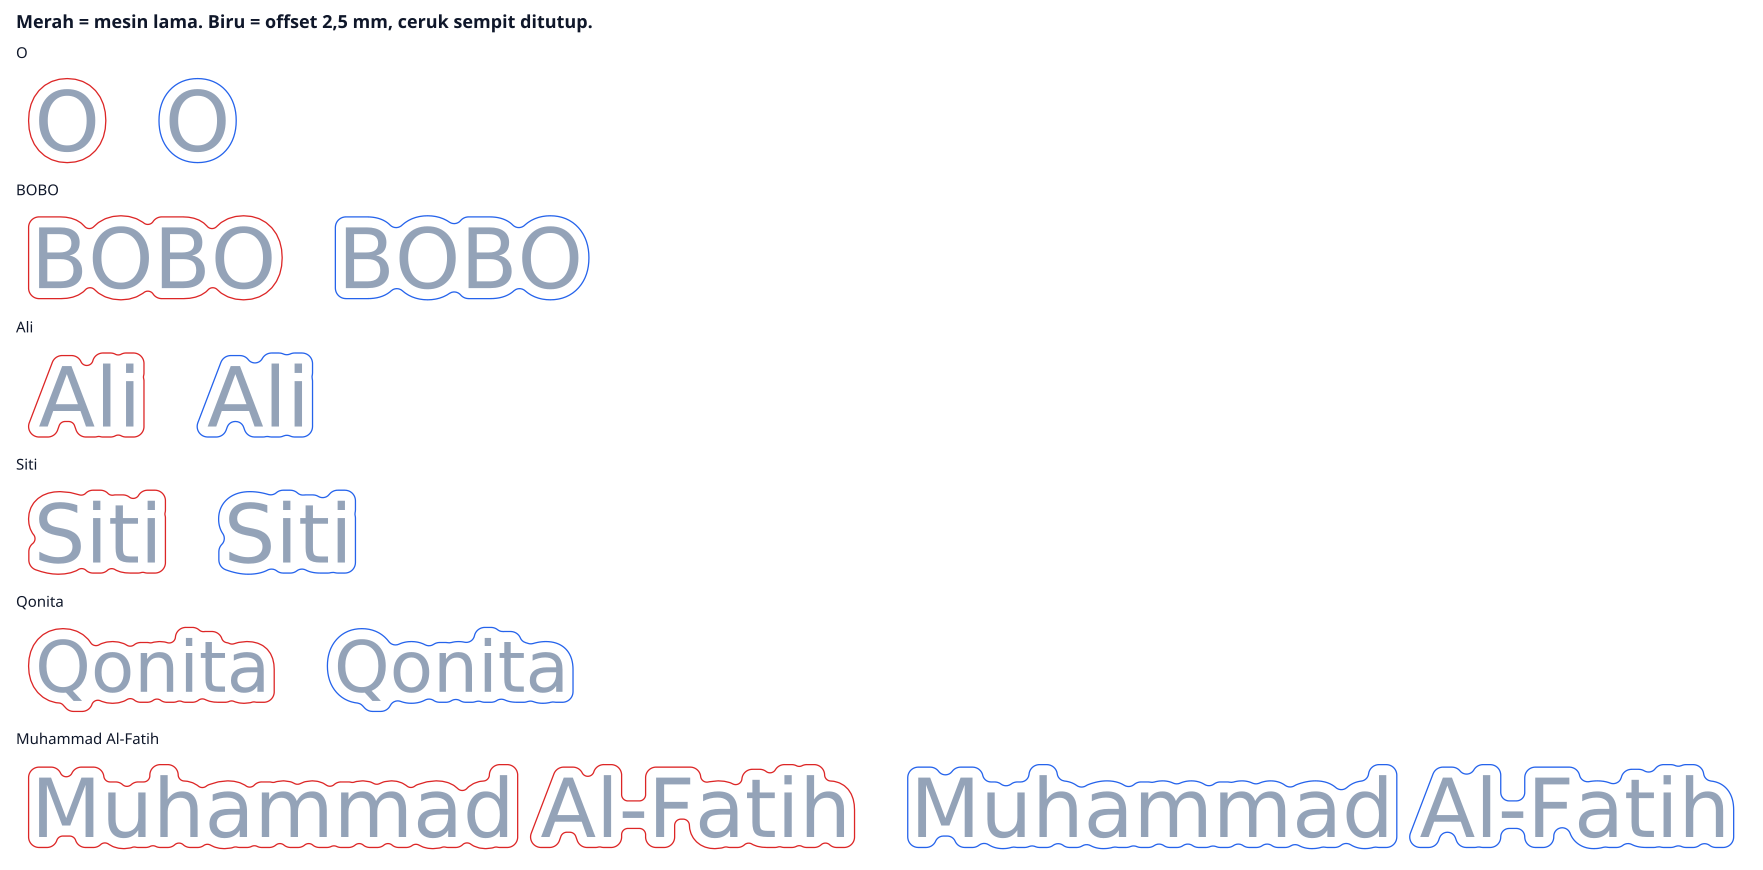
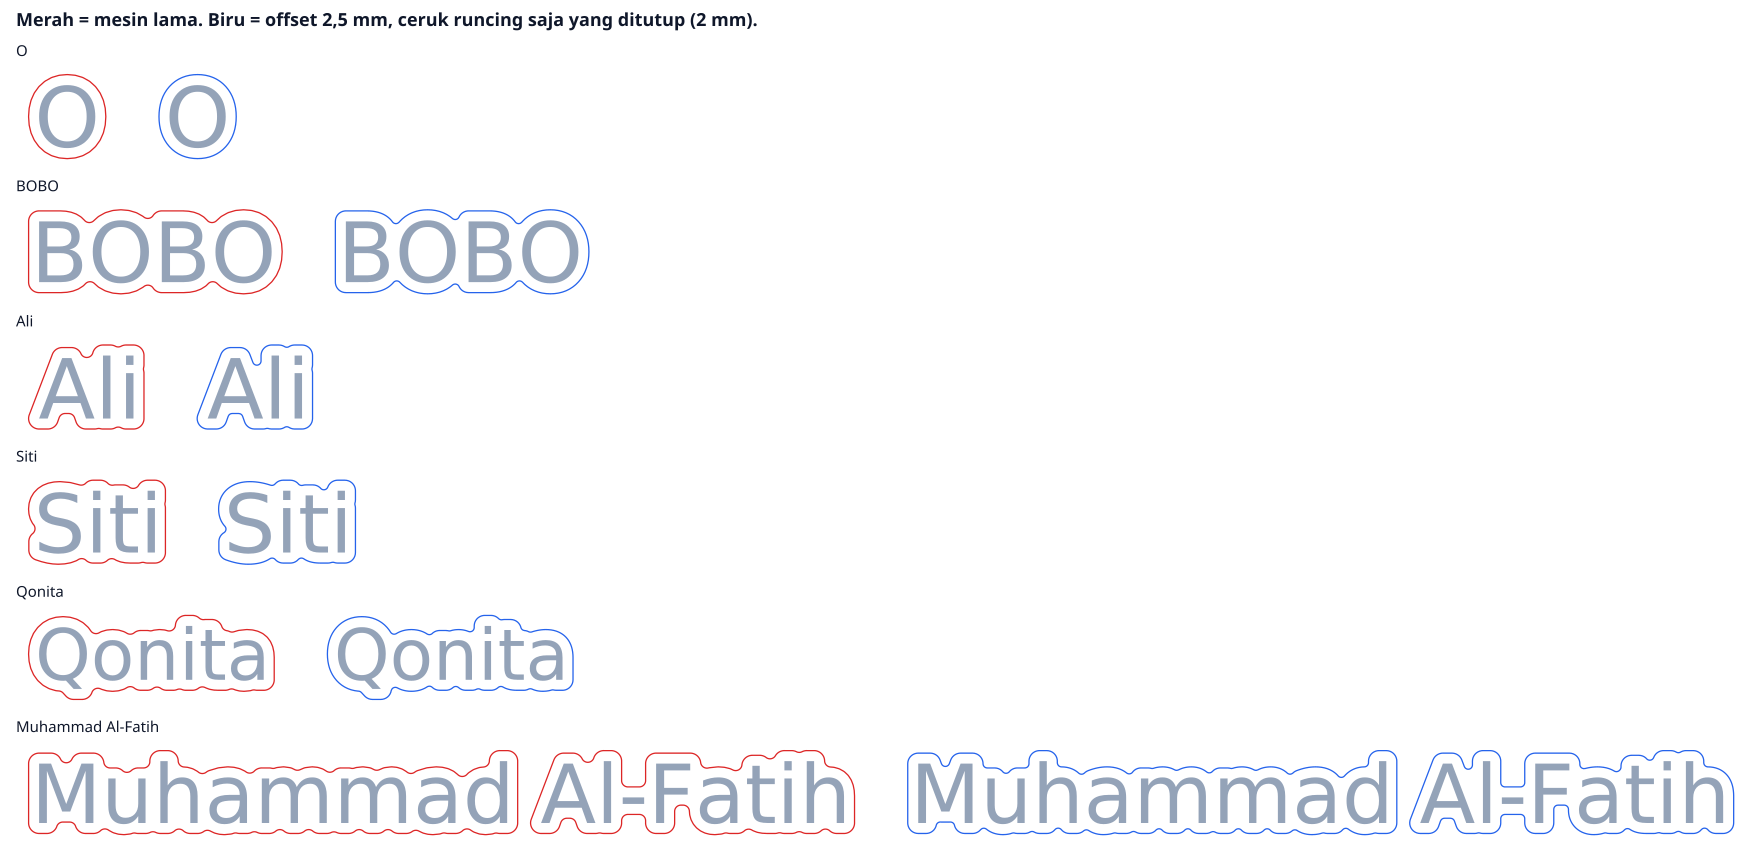
fix(contour): round only the sharp letter cusps
A 4 mm close smoothed the outer waves too much. Close notches narrower
than 2 mm instead, so the Faza silhouette stays close to the plain
2.5 mm contour and the knife-edge tips become small arcs.

diff --git a/lib/contour-outline.test.ts b/lib/contour-outline.test.ts
@@ -143,7 +143,7 @@ describe("production contour", () => {
 
   test("offset and gap threshold are configurable, and the defaults match Corel 0.25 cm", () => {
     assert.equal(OUTLINE_OFFSET_MM, 2.5);
-    assert.equal(GAP_CLOSE_MM, 4);
+    assert.equal(GAP_CLOSE_MM, 2);
 
     const wide = computeProductionOutline([rect(0, 0, 20, 10)], { offset: 1, gapClose: 0 });
     assert.ok(wide);
@@ -156,25 +156,25 @@ describe("production contour", () => {
     assert.equal(subpaths(separate), 2, "closing one piece at a time leaves a 4 mm gap as two pieces");
   });
 
-  test("notches narrower than the threshold are filled and the outer edge stays put", () => {
-    // 8 mm bay. A 2.5 mm offset leaves a channel about 3 mm wide, which the
-    // default 4 mm close then fills. A 14 mm bay stays open.
-    const narrow = "M 0 0 H 16 V 12 H 24 V 0 H 40 V 24 H 0 Z";
-    const wideBay = "M 0 0 H 13 V 12 H 27 V 0 H 40 V 24 H 0 Z";
-    const filled = computeProductionOutline([narrow]);
-    const open = computeProductionOutline([wideBay]);
-    const spared = computeProductionOutline([narrow], { gapClose: 0 });
-    assert.ok(filled && open && spared);
+  test("only a narrow sharp notch is filled; a wider bay and the outer edge stay", () => {
+    // 1.2 mm slot, no offset, so the width is exact. Default 2 mm close fills it.
+    // A 10 mm bay is wider than the threshold, so it stays.
+    const spike = "M 0 0 H 19.4 V 6 H 20.6 V 0 H 40 V 16 H 0 Z";
+    const bay = "M 0 0 H 15 V 6 H 25 V 0 H 40 V 16 H 0 Z";
+    const filled = computeProductionOutline([spike], { offset: 0 });
+    const open = computeProductionOutline([bay], { offset: 0 });
+    const raw = computeProductionOutline([spike], { offset: 0, gapClose: 0 });
+    assert.ok(filled && open && raw);
 
     const depth = (d: string) => {
       const pts = pointsOf(d);
-      const outer = Math.min(...pts.filter((p) => p.x < 3 || p.x > 37).map((p) => p.y));
-      const floor = Math.max(...pts.filter((p) => p.x > 16 && p.x < 24).map((p) => p.y));
+      const outer = Math.min(...pts.filter((p) => p.x < 2 || p.x > 38).map((p) => p.y));
+      const floor = Math.max(...pts.filter((p) => p.x > 15 && p.x < 25).map((p) => p.y));
       return floor - outer;
     };
-    assert.ok(depth(spared) > 8, `without closing the channel stays deep (${depth(spared)})`);
-    assert.ok(depth(filled) < 3, `default close fills the narrow channel (${depth(filled)})`);
-    assert.ok(depth(open) > 6, `a 14 mm bay stays (${depth(open)})`);
+    assert.ok(depth(raw) > 5, `the raw slot is deep (${depth(raw)})`);
+    assert.ok(depth(filled) < 1.5, `the 1.2 mm slot is filled (${depth(filled)})`);
+    assert.ok(depth(open) > 5, `the 10 mm bay stays (${depth(open)})`);
 
     const box = boundsOf(pointsOf(computeProductionOutline([rect(0, 0, 30, 12)])!));
     const bare = boundsOf(pointsOf(computeProductionOutline([rect(0, 0, 30, 12)], { gapClose: 0 })!));

diff --git a/lib/keychain-geometry.ts b/lib/keychain-geometry.ts
@@ -89,14 +89,14 @@ export const MAX_LAYOUT_OFFSET_MM = 15;
 export const OUTLINE_OFFSET_MM = 2.5;
 
 /**
- * After the 2.5 mm offset, fill concave notches narrower than this (mm).
- * The closing radius is half of it. It runs on each already-offset piece
- * by itself, so a straight outer edge does not move and a word space that
- * is already a separate piece stays open. 4 mm rounds off the sharp
- * cusps between letters in "Faza" (and the other samples) into a smooth
- * arc without bridging the ~3 mm gap that remains between words.
+ * After the 2.5 mm offset, round off only concave notches narrower than
+ * this (mm). The radius is half. 2 mm turns the knife-edge cusp between
+ * letters (F–a, z–a) into a small arc and leaves the wider waves along
+ * the top and bottom, which a 4 mm close was swallowing. It runs on each
+ * piece alone, so a separate word is not pulled shut and a straight outer
+ * edge does not move.
  */
-export const GAP_CLOSE_MM = 4;
+export const GAP_CLOSE_MM = 2;
 
 /**
  * Round-off used only where a ring-hole washer or a character silhouette

diff --git a/lib/clipper-outline.ts b/lib/clipper-outline.ts
@@ -178,9 +178,9 @@ export interface ProductionOutlineOptions {
  * 2. Offset outward by `offset` (default 2.5 mm) with round joins. The join
  *    is a circular arc of that radius. Gaps narrower than twice the offset
  *    close on their own. A straight edge moves by exactly this distance.
- * 3. Close each resulting piece by `gapClose` (default 4 mm). That fills
- *    the sharp cusps left between letters without moving the outer edge
- *    and without joining a separate word. Curves stay within
+ * 3. Close each resulting piece by `gapClose` (default 2 mm). That only
+ *    rounds a knife-edge cusp. Wider waves stay. The outer edge does not
+ *    move, and a separate word is not joined. Curves stay within
  *    `curveTolerance` (0.01 mm).
  *
  * The old dilate(4 mm)/erode(1.5 mm) pass is not this. It closed gaps up to

diff --git a/lib/text-ring-hole-preview.ts b/lib/text-ring-hole-preview.ts
@@ -10,8 +10,8 @@
  *   1. Text -> path: the caller's own `ColoredTextRender` (font-preview.ts).
  *   2. Contour: one outward round-join offset of OUTLINE_OFFSET_MM (2.5 mm,
  *      Corel contour 0.25 cm). Letter gaps narrower than twice that close
- *      by themselves. GAP_CLOSE_MM (4 mm) then fills the sharp cusps that
- *      remain, without moving the outer edge.
+ *      by themselves. GAP_CLOSE_MM (2 mm) then rounds only a knife-edge
+ *      cusp, without smoothing the wider outer waves.
  *   3. Bounding box FROM THE CONTOUR, not the raw glyph bbox.
  *   4. Hole anchor: X = contour's own leftmost point; Y = the vertical
  *      midpoint of the FIRST LETTER's own contour.

diff --git a/docs/contour/PENGUKURAN.md b/docs/contour/PENGUKURAN.md
@@ -2,11 +2,11 @@
 
 Tanggal: 10 November 2026. Koreksi satuan dari Rofiq: offset yang diminta adalah Contour CorelDRAW ke luar, 1 langkah, **0,25 cm = 2,5 mm**. Bukan 0,25 mm.
 
-Font sampel nama: DejaVu Sans. Tinggi teks jadi 20 mm (huruf mentah 15 mm, lalu offset 2,5 mm di tiap sisi). “Sebelum” adalah mesin lama: gemuk 4 mm lalu susut 1,5 mm, kurva diratakan pada 0,05 mm. “Sesudah” adalah offset 2,5 mm dengan sambungan bulat, lalu ceruk yang lebih sempit dari 4 mm diisi dengan closing bundar. Pinggiran luar tidak bergeser.
+Font sampel nama: DejaVu Sans. Tinggi teks jadi 20 mm (huruf mentah 15 mm, lalu offset 2,5 mm di tiap sisi). “Sebelum” adalah mesin lama: gemuk 4 mm lalu susut 1,5 mm, kurva diratakan pada 0,05 mm. “Sesudah” adalah offset 2,5 mm dengan sambungan bulat, lalu hanya takik yang lebih sempit dari 2 mm yang dibulatkan. Closing 4 mm sempat membuat gelombang luar terlalu halus, jadi ambang diturunkan. Pinggiran luar tidak bergeser.
 
 Gambar nama: [images/perbandingan.png](images/perbandingan.png). Merah = mesin lama. Biru = kontur baru.
 
-Gambar “Faza”: [images/faza-aplikasi.png](images/faza-aplikasi.png). Font Noto Serif Display Bold Italic (Cooper/Bookman tidak ada di mesin ini). Huruf hitam, garis merah muda, tinggi huruf 22 mm supaya celah antar huruf masih di bawah 5 mm dan siluetnya satu keping, seperti sampel Corel. Perbesar sudut dan ceruk: [images/perbandingan-zoom.png](images/perbandingan-zoom.png).
+Gambar “Faza” berdampingan, run #2, run #3, dan hasil sekarang: [images/faza-aplikasi.png](images/faza-aplikasi.png). Font Noto Serif Display Bold Italic, tinggi huruf 22 mm.
 
 ## Angka
 
@@ -14,17 +14,17 @@ Offset adalah jarak median garis potong ke tepi huruf, dalam mm. Keping = jumlah
 
 | Nama | Offset lama | Offset baru | Titik lama | Titik baru | Keping |
 | --- | --- | --- | --- | --- | --- |
-| O | 2,50 | 2,50 | 335 | 233 | 1 → 1 |
-| BOBO | 2,50 | 2,50 | 1.060 | 520 | 1 → 1 |
-| Ali | 2,50 | 2,49 | 876 | 219 | 1 → 1 |
-| Siti | 2,50 | 2,50 | 994 | 379 | 1 → 1 |
-| Qonita | 2,50 | 2,50 | 1.514 | 592 | 1 → 1 |
-| Muhammad Al-Fatih | 2,50 | 2,50 | 5.705 | 1.694 | 2 → 2 |
-| Faza (22 mm) | 2,50 | 2,50 | 1.816 | 682 | 1 → 1 |
+| O | 2,50 | 2,50 | 335 | 251 | 1 → 1 |
+| BOBO | 2,50 | 2,50 | 1.060 | 539 | 1 → 1 |
+| Ali | 2,50 | 2,50 | 876 | 231 | 1 → 1 |
+| Siti | 2,50 | 2,50 | 994 | 386 | 1 → 1 |
+| Qonita | 2,50 | 2,50 | 1.514 | 632 | 1 → 1 |
+| Muhammad Al-Fatih | 2,50 | 2,50 | 5.705 | 1.901 | 2 → 2 |
+| Faza (22 mm) | 2,50 | 2,50 | 1.816 | 689 | 1 → 1 |
 
 Dua keping pada nama panjang adalah spasi kata, yang lebih lebar dari 5 mm, jadi tidak disambung. Itu sama dengan mesin lama.
 
-Kotak dengan celah 4 mm menjadi satu keping karena offset. Celah 6 mm tetap dua keping. Sudut kotak terukur sebagai busur jari-jari 2,5 mm. Teluk yang tersisa sekitar 3 mm sesudah offset diisi oleh ambang 4 mm. Teluk 14 mm tetap terbuka. Pinggiran luar kotak tidak bergeser saat ceruk ditutup. Lingkaran yang di-offset 2,5 mm menyimpang kurang dari 0,02 mm dari lingkaran sungguhan.
+Kotak dengan celah 4 mm menjadi satu keping karena offset. Celah 6 mm tetap dua keping. Sudut kotak terukur sebagai busur jari-jari 2,5 mm. Takik 1,2 mm diisi. Teluk 10 mm tetap terbuka. Pinggiran luar kotak tidak bergeser. Lingkaran yang di-offset 2,5 mm menyimpang kurang dari 0,02 mm dari lingkaran sungguhan.
 
 Lubang 1,9 mm: file lama sekitar 16 sisi. File baru entity `CIRCLE` jari-jari 0,95 mm.
 
@@ -35,6 +35,6 @@ Jumlah titik turun (nama panjang 5.705 menjadi 1.156) karena toleransi busur tid
 Di `lib/keychain-geometry.ts`:
 
 - `OUTLINE_OFFSET_MM` — jarak kontur. Bawaan 2,5.
-- `GAP_CLOSE_MM` — lebar ceruk yang diisi sesudah offset. Bawaan 4. Radiusnya 2 mm. Naikkan jika masih ada takik tipis. Turunkan jika lekukan huruf yang ingin dipertahankan ikut hilang. Spasi kata tidak tersambung selama kepingnya sudah terpisah.
+- `GAP_CLOSE_MM` — lebar takik runcing yang dibulatkan sesudah offset. Bawaan 2. Radiusnya 1 mm. Naikkan jika ujung ceruk masih tajam. Jangan naikkan sampai 4: itu membuat gelombang luar terlalu halus. Spasi kata tidak tersambung selama kepingnya sudah terpisah.
 - `SEAM_ROUND_MM` — fillet kecil (0,6 mm) hanya di sambungan washer atau karakter, bukan offset kedua.
 - `CURVE_TOLERANCE_MM` — 0,01. Menaikkannya membuat garis lebih patah. Menurunkannya memperbanyak titik.

diff --git a/docs/PRD.md b/docs/PRD.md
@@ -142,11 +142,11 @@ Yang belum diputuskan ada di bagian nesting. Jawaban kontur sudah ditulis di baw
 Rofiq menjawab pada 10 November 2026. Angkanya ada di `lib/keychain-geometry.ts`. Ukurannya ada di [docs/contour/PENGUKURAN.md](contour/PENGUKURAN.md).
 
 1. Jarak garis potong dari tepi desain = **2,5 mm** (`OUTLINE_OFFSET_MM`). Itu Contour CorelDRAW ke luar, 1 langkah, offset **0,25 cm**. Angka 0,25 mm yang sempat ditulis adalah salah satuan. Pada sampel, median terukur 2,50 mm. Sudut cembung jadi busur bulat dengan jari-jari 2,5 mm (round join).
-2. Celah kecil antar huruf yang lebih sempit dari 5 mm menyatu karena offset 2,5 mm. Setelah itu, ceruk tajam yang tersisa di dalam siluet (antara F dan a, antara z dan a, dan lekukan sempit di sambungan) ditutup dengan closing bundar. Ambang bawaan `GAP_CLOSE_MM` = **4 mm**: ceruk yang lebih sempit dari itu diisi jadi busur mulus. Closing dijalankan per keping sesudah offset, jadi pinggiran luar tidak bergeser dari 2,5 mm, dan spasi kata yang sudah terpisah tetap terbuka. Angka ini bisa diubah di `lib/keychain-geometry.ts`.
+2. Celah kecil antar huruf yang lebih sempit dari 5 mm menyatu karena offset 2,5 mm. Lekukan luar yang lebih lebar (gelombang di atas F–a–z–a dan di bawah huruf) tetap mengikuti bentuk huruf. Hanya takik runcing yang sempit, yang rawan patah, yang dibulatkan. Ambang bawaan `GAP_CLOSE_MM` = **2 mm** (radius 1 mm). Closing 4 mm sempat dicoba dan membuat siluet terlalu halus. Closing dijalankan per keping sesudah offset, jadi pinggiran luar tetap 2,5 mm dan spasi kata yang sudah terpisah tetap terbuka. Angka ini bisa diubah di `lib/keychain-geometry.ts`.
 3. Lubang dalam huruf (tengah O) dan mata gambar tetap tidak dipotong. Lubang dalam yang kecil pada siluet luar tertutup oleh offset 2,5 mm. Yang ditutup adalah celah, bukan garis potong di dalam huruf.
 4. Foto PNG tanpa vektor tetap menjadi kotak. Layar template sekarang memperingatkan “bukan vektor”.
 5. Kurva diratakan dengan simpangan paling besar 0,01 mm supaya busur tidak terlihat patah saat diperbesar. Lubang gantungan 1,9 mm di file DXF ditulis sebagai lingkaran, bukan segi 16.
-6. Patokan visual: screenshot Corel Rofiq untuk kata “Faza”. Hasil aplikasi (font Noto Serif Display Bold Italic, karena Cooper/Bookman tidak ada di mesin) ada di [docs/contour/images/faza-aplikasi.png](contour/images/faza-aplikasi.png), perbesar sudut dan ceruk di [docs/contour/images/perbandingan-zoom.png](contour/images/perbandingan-zoom.png). Tabel angka di [docs/contour/PENGUKURAN.md](contour/PENGUKURAN.md).
+6. Patokan visual: screenshot Corel Rofiq untuk kata “Faza”. Perbandingan run #2, run #3, dan hasil sekarang (font Noto Serif Display Bold Italic, karena Cooper/Bookman tidak ada di mesin) ada di [docs/contour/images/faza-aplikasi.png](contour/images/faza-aplikasi.png). Tabel angka di [docs/contour/PENGUKURAN.md](contour/PENGUKURAN.md).
 
 Pertanyaan nesting di atas belum dijawab. Patokan susunan lembar tetap file contoh manual.
 

diff --git a/docs/ARCHITECTURE.md b/docs/ARCHITECTURE.md
@@ -82,7 +82,7 @@ Menghapus resi (`DELETE /api/orders/[id]`) ikut menghapus item pesanan dan item 
 ## Mesin gambar dan nesting
 
 - `lib/keychain-render.ts` — mode dinamis. Teks dari font, garis potong dengan Clipper, lubang cincin, batas lebar 80 mm.
-- `lib/clipper-outline.ts` — `computeProductionOutline`. Ini padanan Contour CorelDRAW ke luar, 1 langkah, lalu penutup ceruk: gabungkan bentuk, buang lubang dalam huruf, geser keluar `OUTLINE_OFFSET_MM` (2,5 mm, yaitu 0,25 cm) dengan sambungan bulat. Celah yang lebih sempit dari 5 mm menyatu karena offset itu. Sesudahnya tiap keping ditutup dengan closing bundar selebar `GAP_CLOSE_MM` (bawaan 4 mm, radius 2 mm) supaya ceruk tajam antar huruf jadi busur, tanpa menggeser pinggiran luar dan tanpa menyambung spasi kata yang sudah terpisah. Pratinjau memakai fungsi yang sama, satuannya piksel. Mode tetap tidak memanggil offset ini. Sambungan washer/karakter hanya difillet `SEAM_ROUND_MM` (0,6 mm), tanpa offset kedua.
+- `lib/clipper-outline.ts` — `computeProductionOutline`. Ini padanan Contour CorelDRAW ke luar, 1 langkah, lalu penutup ceruk: gabungkan bentuk, buang lubang dalam huruf, geser keluar `OUTLINE_OFFSET_MM` (2,5 mm, yaitu 0,25 cm) dengan sambungan bulat. Celah yang lebih sempit dari 5 mm menyatu karena offset itu. Sesudahnya tiap keping ditutup dengan closing bundar selebar `GAP_CLOSE_MM` (bawaan 2 mm, radius 1 mm) supaya hanya ujung ceruk yang runcing jadi busur kecil. Lekukan luar yang lebih lebar tidak dihaluskan. Pinggiran luar tidak bergeser dan spasi kata yang sudah terpisah tidak tersambung. Pratinjau memakai fungsi yang sama, satuannya piksel. Mode tetap tidak memanggil offset ini. Sambungan washer/karakter hanya difillet `SEAM_ROUND_MM` (0,6 mm), tanpa offset kedua.
 - `lib/export-dxf.ts` — garis potong menjadi polyline dengan simpangan kurva paling besar `CURVE_TOLERANCE_MM` (0,01 mm), sambungan bulat. Lubang gantungan yang masih berupa lingkaran ditulis sebagai entity `CIRCLE`, termasuk setelah path-nya diubah paper.js menjadi kurva kubik dan setelah keping diputar 90 derajat.
 - `lib/keychain-render-fixed.ts` — mode tetap. SVG master sudah punya garis potong. Aplikasi hanya menaruh teks atau foto di zona.
 - `lib/render-dispatcher.ts` — memilih renderer sesuai `layoutMode`.

diff --git a/docs/ROADMAP.md b/docs/ROADMAP.md
@@ -19,7 +19,7 @@ Yang terukur pada mesin lama, sebelum angka diubah: offset 2,50 mm, celah antar 
 Yang dipakai sekarang:
 
 - `OUTLINE_OFFSET_MM` = 2,5. Itu 0,25 cm di CorelDRAW (Contour ke luar, 1 langkah). Pada enam sampel nama plus “Faza”, median offset 2,50 mm. Sudut cembung adalah busur jari-jari 2,5 mm.
-- Celah antar huruf lebih sempit dari 5 mm tertutup oleh offset itu. `GAP_CLOSE_MM` = 4 mengisi ceruk yang lebih sempit dari 4 mm pada siluet yang sudah di-offset, dengan busur bundar. Pinggiran luar tetap 2,5 mm. Spasi kata tetap terbuka karena closing dijalankan per keping.
+- Celah antar huruf lebih sempit dari 5 mm tertutup oleh offset itu. `GAP_CLOSE_MM` = 2 hanya membulatkan takik yang lebih sempit dari 2 mm. Gelombang luar yang lebih lebar tetap seperti kontur 2,5 mm tanpa closing. Pinggiran luar tetap 2,5 mm. Spasi kata tetap terbuka.
 - Lubang dalam huruf O tidak dipotong, sesuai keputusan.
 - PNG tanpa vektor memunculkan peringatan di layar template.
 - Lubang gantungan di DXF adalah lingkaran. Tes gagal jika offset kotak menyimpang lebih dari 0,03 mm dari 2,5, jika sudutnya bukan busur jari-jari 2,5 mm, jika celah 4 mm tidak tersambung, atau jika lubang DXF bukan `CIRCLE`.
